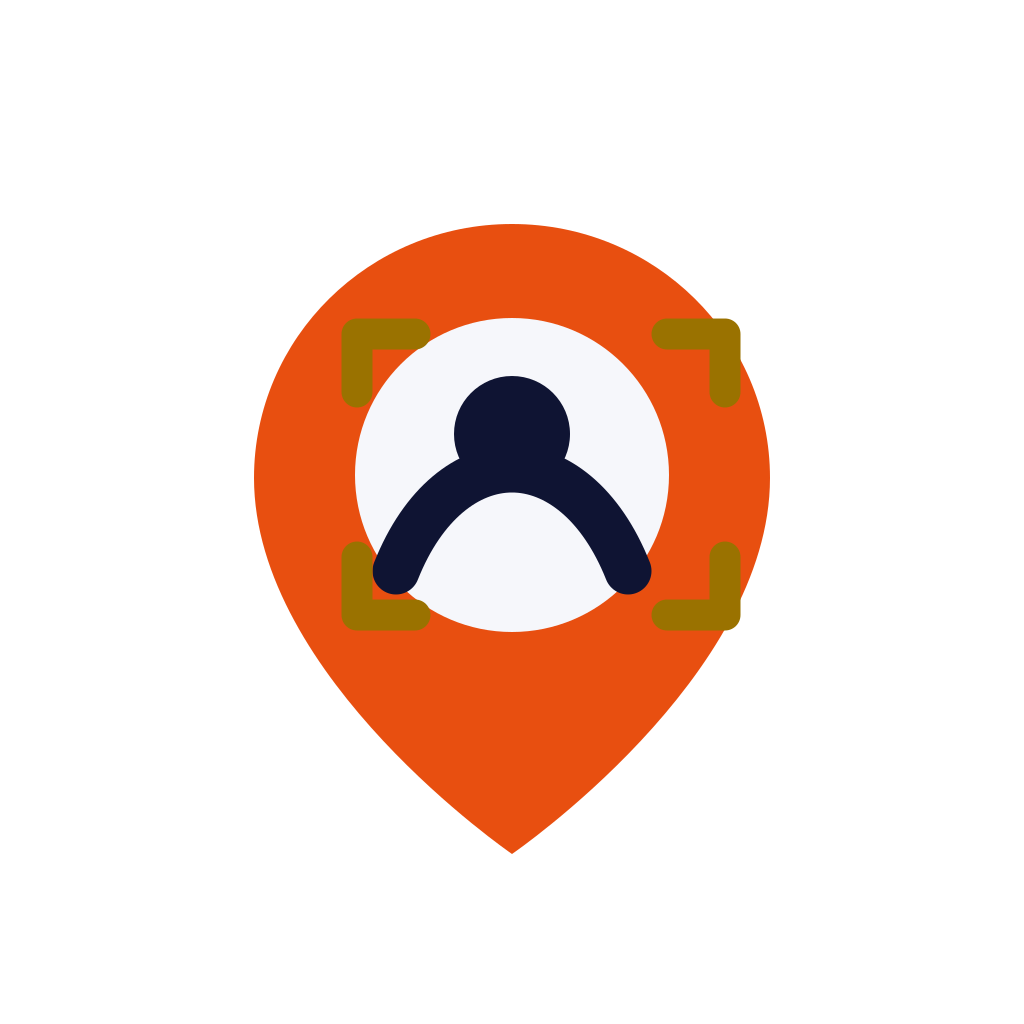
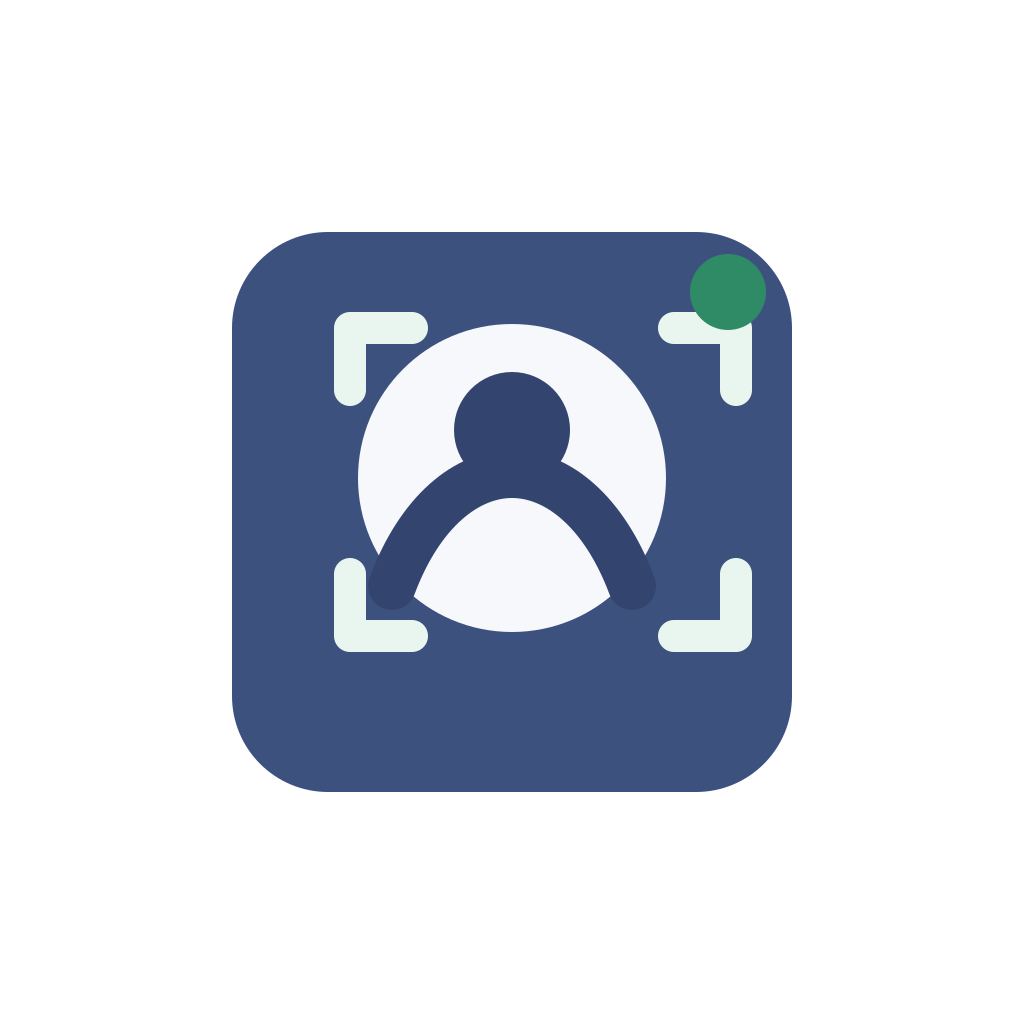
fix: restore Smart Campus mobile branding

Changed region(s): [[0.2188, 0.2188, 0.7812, 0.8438]]

diff --git a/mobile/src/components/ui/brand-header.tsx b/mobile/src/components/ui/brand-header.tsx
@@ -1,4 +1,4 @@
-import { StyleSheet, View } from 'react-native';
+import { Pressable, StyleSheet, View } from 'react-native';
 
 import { Brand, Radius, Spacing } from '@/constants/theme';
 import { useAppTheme } from '@/hooks/use-app-theme';
@@ -7,25 +7,29 @@ import { AppText } from './app-text';
 export function BrandHeader({ eyebrow, title, subtitle }: { eyebrow?: string; title: string; subtitle?: string }) {
   const { colors } = useAppTheme();
   return (
-    <View style={styles.wrap}>
+    <View style={[styles.wrap, { borderBottomColor: colors.border, backgroundColor: `${colors.surface}F2` }]}>
       <View style={styles.brandRow}>
-        <View style={[styles.mark, { backgroundColor: colors.primary }]}><AppText variant="label" style={styles.markText}>NAU</AppText></View>
-        <View style={styles.brandCopy}>
-          <AppText variant="label">{Brand.name}</AppText>
-          <AppText variant="caption" style={{ color: colors.textSecondary }}>Nnamdi Azikiwe University</AppText>
+        <View style={[styles.mark, { backgroundColor: colors.primary }]}>
+          <AppText variant="heading" style={styles.markText}>⌖</AppText>
         </View>
+        <View style={styles.brandCopy}>
+          <AppText variant="label">{title}</AppText>
+          <AppText variant="caption" numberOfLines={1} style={{ color: colors.textSecondary }}>{Brand.name}</AppText>
+        </View>
+        <Pressable style={[styles.rolePill, { borderColor: colors.border, backgroundColor: colors.surfaceMuted }]}>
+          <AppText variant="caption" style={{ color: colors.textSecondary }}>{eyebrow ?? Brand.shortName}</AppText>
+        </Pressable>
       </View>
-      {eyebrow ? <AppText variant="caption" style={{ color: colors.orange, textTransform: 'uppercase', letterSpacing: 1 }}>{eyebrow}</AppText> : null}
-      <AppText variant="title">{title}</AppText>
-      {subtitle ? <AppText style={{ color: colors.textSecondary }}>{subtitle}</AppText> : null}
+      {subtitle ? <AppText variant="caption" numberOfLines={2} style={{ color: colors.textSecondary }}>{subtitle}</AppText> : null}
     </View>
   );
 }
 
 const styles = StyleSheet.create({
-  wrap: { gap: Spacing.sm },
+  wrap: { marginHorizontal: -Spacing.lg, marginTop: -Spacing.lg, marginBottom: Spacing.sm, paddingHorizontal: Spacing.lg, paddingTop: Spacing.md, paddingBottom: Spacing.md, borderBottomWidth: StyleSheet.hairlineWidth, gap: Spacing.xs },
   brandRow: { flexDirection: 'row', alignItems: 'center', gap: Spacing.md, marginBottom: Spacing.md },
   brandCopy: { flex: 1 },
-  mark: { width: 44, height: 44, borderRadius: Radius.sm, alignItems: 'center', justifyContent: 'center' },
-  markText: { color: '#FFFFFF', fontWeight: '800' },
+  mark: { width: 36, height: 36, borderRadius: Radius.sm, alignItems: 'center', justifyContent: 'center' },
+  markText: { color: '#FFFFFF', fontWeight: '800', lineHeight: 24 },
+  rolePill: { borderWidth: StyleSheet.hairlineWidth, borderRadius: Radius.pill, paddingHorizontal: Spacing.md, paddingVertical: Spacing.xs },
 });

diff --git a/mobile/src/constants/theme.ts b/mobile/src/constants/theme.ts
@@ -1,46 +1,50 @@
 import { Platform } from 'react-native';
 
 export const Brand = {
-  name: 'UNIZIK Presence',
+  name: 'Smart Campus Presence',
   university: 'Nnamdi Azikiwe University',
-  shortName: 'UNIZIK',
+  shortName: 'Smart Campus',
   motto: 'Discipline · Self Reliance · Excellence',
   attendanceRadiusMeters: 150,
 } as const;
 
 export const Colors = {
   light: {
-    primary: '#1C64D6',
-    primaryPressed: '#154EA8',
-    primarySoft: '#EAF1FC',
-    orange: '#E84F10',
-    orangeSoft: '#FDEDE7',
-    gold: '#9A7200',
-    goldSoft: '#F8F1DA',
-    navy: '#0F1433',
-    background: '#F6F7FB',
+    primary: '#33456F',
+    primaryPressed: '#263756',
+    primarySoft: '#F2F5FA',
+    orange: '#B8821E',
+    orangeSoft: '#FBF3DF',
+    gold: '#B8821E',
+    goldSoft: '#FBF3DF',
+    navy: '#33456F',
+    sidebar: '#33456F',
+    sidebarAccent: '#3C517D',
+    background: '#F6F8FC',
     surface: '#FFFFFF',
-    surfaceMuted: '#ECF0F8',
-    text: '#0F1433',
-    textSecondary: '#5B647C',
-    textFaint: '#8991A5',
-    border: '#DDE3EF',
-    success: '#15805A',
-    successSoft: '#E7F6F0',
-    warning: '#9A7200',
-    warningSoft: '#F8F1DA',
-    danger: '#C33A32',
+    surfaceMuted: '#F1F5FA',
+    text: '#27324A',
+    textSecondary: '#68738A',
+    textFaint: '#8A94A6',
+    border: '#E1E7F0',
+    success: '#2F8B66',
+    successSoft: '#E9F6F0',
+    warning: '#B8821E',
+    warningSoft: '#FBF3DF',
+    danger: '#C4473B',
     dangerSoft: '#FCEBE9',
   },
   dark: {
-    primary: '#75A7F5',
-    primaryPressed: '#9BBFF7',
-    primarySoft: '#17284D',
-    orange: '#F27A48',
-    orangeSoft: '#3B211A',
+    primary: '#EEF3FB',
+    primaryPressed: '#D8E2F1',
+    primarySoft: '#29354D',
+    orange: '#D8B755',
+    orangeSoft: '#342E19',
     gold: '#D8B755',
     goldSoft: '#342E19',
     navy: '#F5F7FC',
+    sidebar: '#1F293D',
+    sidebarAccent: '#2B3851',
     background: '#07090F',
     surface: '#0D1320',
     surfaceMuted: '#111827',
@@ -74,4 +78,4 @@ export const Spacing = {
   huge: 48,
 } as const;
 
-export const Radius = { sm: 10, md: 16, lg: 22, pill: 999 } as const;
+export const Radius = { sm: 8, md: 12, lg: 16, pill: 999 } as const;

diff --git a/mobile/src/components/ui/button.tsx b/mobile/src/components/ui/button.tsx
@@ -10,7 +10,7 @@ type Variant = 'primary' | 'secondary' | 'danger' | 'ghost';
 
 export function Button({ children, onPress, variant = 'primary', loading, disabled, testID }: PropsWithChildren<{ onPress?: () => void; variant?: Variant; loading?: boolean; disabled?: boolean; testID?: string }>) {
   const { colors } = useAppTheme();
-  const background = variant === 'primary' ? colors.primary : variant === 'danger' ? colors.danger : variant === 'ghost' ? 'transparent' : colors.surfaceMuted;
+  const background = variant === 'primary' ? colors.primary : variant === 'danger' ? colors.danger : variant === 'ghost' ? 'transparent' : colors.surface;
   const foreground = variant === 'primary' || variant === 'danger' ? '#FFFFFF' : colors.text;
   return (
     <Pressable
@@ -21,7 +21,7 @@ export function Button({ children, onPress, variant = 'primary', loading, disabl
         void Haptics.selectionAsync();
         onPress?.();
       }}
-      style={({ pressed }) => [styles.button, { backgroundColor: background, opacity: disabled ? 0.45 : pressed ? 0.78 : 1 }]}
+      style={({ pressed }) => [styles.button, { backgroundColor: background, borderColor: variant === 'secondary' ? colors.border : 'transparent', opacity: disabled ? 0.45 : pressed ? 0.78 : 1 }]}
     >
       {loading ? <ActivityIndicator color={foreground} /> : <AppText variant="label" style={{ color: foreground, fontFamily: Fonts.medium }}>{children}</AppText>}
     </Pressable>
@@ -29,5 +29,5 @@ export function Button({ children, onPress, variant = 'primary', loading, disabl
 }
 
 const styles = StyleSheet.create({
-  button: { minHeight: 50, borderRadius: Radius.md, paddingHorizontal: Spacing.lg, alignItems: 'center', justifyContent: 'center', flexDirection: 'row' },
+  button: { minHeight: 44, borderWidth: StyleSheet.hairlineWidth, borderRadius: Radius.sm, paddingHorizontal: Spacing.lg, alignItems: 'center', justifyContent: 'center', flexDirection: 'row' },
 });

diff --git a/mobile/src/app/(lecturer)/(tabs)/_layout.tsx b/mobile/src/app/(lecturer)/(tabs)/_layout.tsx
@@ -6,10 +6,10 @@ import { useAppTheme } from '@/hooks/use-app-theme';
 export default function LecturerTabs() {
   const { colors } = useAppTheme();
   return (
-    <Tabs screenOptions={{ headerShown: false, tabBarActiveTintColor: colors.primary, tabBarInactiveTintColor: colors.textFaint, tabBarStyle: { backgroundColor: colors.surface, borderTopColor: colors.border, height: 68, paddingTop: 7, paddingBottom: 8 }, tabBarLabelStyle: { fontSize: 11, fontWeight: '600' } }}>
-      <Tabs.Screen name="index" options={{ title: 'Home', tabBarIcon: ({ color }) => <TabIcon symbol="⌂" color={color} /> }} />
-      <Tabs.Screen name="courses" options={{ title: 'Courses', tabBarIcon: ({ color }) => <TabIcon symbol="▤" color={color} /> }} />
+    <Tabs screenOptions={{ headerShown: false, tabBarActiveTintColor: colors.text, tabBarInactiveTintColor: `${colors.background}B3`, tabBarStyle: { position: 'absolute', left: 16, right: 16, bottom: 22, height: 64, borderRadius: 999, borderTopWidth: 0, backgroundColor: `${colors.text}F2`, paddingTop: 8, paddingBottom: 8, paddingHorizontal: 10, shadowColor: '#0F172A', shadowOffset: { width: 0, height: 14 }, shadowOpacity: 0.18, shadowRadius: 28, elevation: 12 }, tabBarItemStyle: { borderRadius: 999 }, tabBarActiveBackgroundColor: colors.background, tabBarLabelStyle: { fontSize: 10, fontWeight: '600' } }}>
+      <Tabs.Screen name="index" options={{ title: 'Dashboard', tabBarIcon: ({ color }) => <TabIcon symbol="⌂" color={color} /> }} />
       <Tabs.Screen name="sessions" options={{ title: 'Sessions', tabBarIcon: ({ color }) => <TabIcon symbol="◉" color={color} /> }} />
+      <Tabs.Screen name="courses" options={{ title: 'Courses', tabBarIcon: ({ color }) => <TabIcon symbol="▤" color={color} /> }} />
       <Tabs.Screen name="profile" options={{ title: 'Profile', tabBarIcon: ({ color }) => <TabIcon symbol="●" color={color} /> }} />
     </Tabs>
   );

diff --git a/mobile/src/app/(student)/(tabs)/_layout.tsx b/mobile/src/app/(student)/(tabs)/_layout.tsx
@@ -6,10 +6,10 @@ import { useAppTheme } from '@/hooks/use-app-theme';
 export default function StudentTabs() {
   const { colors } = useAppTheme();
   return (
-    <Tabs screenOptions={{ headerShown: false, tabBarActiveTintColor: colors.primary, tabBarInactiveTintColor: colors.textFaint, tabBarStyle: { backgroundColor: colors.surface, borderTopColor: colors.border, height: 68, paddingTop: 7, paddingBottom: 8 }, tabBarLabelStyle: { fontSize: 11, fontWeight: '600' } }}>
-      <Tabs.Screen name="index" options={{ title: 'Home', tabBarIcon: ({ color }) => <TabIcon symbol="⌂" color={color} /> }} />
-      <Tabs.Screen name="courses" options={{ title: 'Courses', tabBarIcon: ({ color }) => <TabIcon symbol="▤" color={color} /> }} />
+    <Tabs screenOptions={{ headerShown: false, tabBarActiveTintColor: colors.text, tabBarInactiveTintColor: `${colors.background}B3`, tabBarStyle: { position: 'absolute', left: 16, right: 16, bottom: 22, height: 64, borderRadius: 999, borderTopWidth: 0, backgroundColor: `${colors.text}F2`, paddingTop: 8, paddingBottom: 8, paddingHorizontal: 10, shadowColor: '#0F172A', shadowOffset: { width: 0, height: 14 }, shadowOpacity: 0.18, shadowRadius: 28, elevation: 12 }, tabBarItemStyle: { borderRadius: 999 }, tabBarActiveBackgroundColor: colors.background, tabBarLabelStyle: { fontSize: 10, fontWeight: '600' } }}>
+      <Tabs.Screen name="index" options={{ title: 'Dashboard', tabBarIcon: ({ color }) => <TabIcon symbol="⌂" color={color} /> }} />
       <Tabs.Screen name="history" options={{ title: 'History', tabBarIcon: ({ color }) => <TabIcon symbol="◷" color={color} /> }} />
+      <Tabs.Screen name="courses" options={{ title: 'Courses', tabBarIcon: ({ color }) => <TabIcon symbol="▤" color={color} /> }} />
       <Tabs.Screen name="profile" options={{ title: 'Profile', tabBarIcon: ({ color }) => <TabIcon symbol="●" color={color} /> }} />
     </Tabs>
   );

diff --git a/mobile/src/app/(admin)/(tabs)/_layout.tsx b/mobile/src/app/(admin)/(tabs)/_layout.tsx
@@ -6,8 +6,8 @@ import { useAppTheme } from '@/hooks/use-app-theme';
 export default function AdminTabs() {
   const { colors } = useAppTheme();
   return (
-    <Tabs screenOptions={{ headerShown: false, tabBarActiveTintColor: colors.primary, tabBarInactiveTintColor: colors.textFaint, tabBarStyle: { backgroundColor: colors.surface, borderTopColor: colors.border, height: 68, paddingTop: 7, paddingBottom: 8 }, tabBarLabelStyle: { fontSize: 11, fontWeight: '600' } }}>
-      <Tabs.Screen name="index" options={{ title: 'Home', tabBarIcon: ({ color }) => <TabIcon symbol="⌂" color={color} /> }} />
+    <Tabs screenOptions={{ headerShown: false, tabBarActiveTintColor: colors.text, tabBarInactiveTintColor: `${colors.background}B3`, tabBarStyle: { position: 'absolute', left: 16, right: 16, bottom: 22, height: 64, borderRadius: 999, borderTopWidth: 0, backgroundColor: `${colors.text}F2`, paddingTop: 8, paddingBottom: 8, paddingHorizontal: 10, shadowColor: '#0F172A', shadowOffset: { width: 0, height: 14 }, shadowOpacity: 0.18, shadowRadius: 28, elevation: 12 }, tabBarItemStyle: { borderRadius: 999 }, tabBarActiveBackgroundColor: colors.background, tabBarLabelStyle: { fontSize: 10, fontWeight: '600' } }}>
+      <Tabs.Screen name="index" options={{ title: 'Dashboard', tabBarIcon: ({ color }) => <TabIcon symbol="⌂" color={color} /> }} />
       <Tabs.Screen name="approvals" options={{ title: 'Approvals', tabBarIcon: ({ color }) => <TabIcon symbol="✓" color={color} /> }} />
       <Tabs.Screen name="setup" options={{ title: 'Setup', tabBarIcon: ({ color }) => <TabIcon symbol="＋" color={color} /> }} />
       <Tabs.Screen name="reports" options={{ title: 'Reports', tabBarIcon: ({ color }) => <TabIcon symbol="▥" color={color} /> }} />

diff --git a/mobile/src/components/permissions/permission-primer.tsx b/mobile/src/components/permissions/permission-primer.tsx
@@ -9,8 +9,8 @@ import { Button } from '@/components/ui/button';
 import { Card } from '@/components/ui/card';
 
 const copy: Record<PermissionKind, { title: string; body: string; action: string }> = {
-  location: { title: 'Confirm your lecture location', body: 'UNIZIK Presence uses precise location only during check-in to confirm that you are within the fixed 150-metre lecture radius.', action: 'Allow precise location' },
-  camera: { title: 'Allow camera for live-face verification', body: 'UNIZIK Presence analyses lighting, face position, eye state, and head movement locally with Google ML Kit. Captures are temporary, are never saved to your gallery, and the camera is used only while this verification screen is open.', action: 'Continue to camera permission' },
+  location: { title: 'Confirm your lecture location', body: 'Smart Campus Presence uses precise location only during check-in to confirm that you are within the fixed 150-metre lecture radius.', action: 'Allow precise location' },
+  camera: { title: 'Allow camera for live-face verification', body: 'Smart Campus Presence analyses lighting, face position, eye state, and head movement locally with Google ML Kit. Captures are temporary, are never saved to your gallery, and the camera is used only while this verification screen is open.', action: 'Continue to camera permission' },
   notifications: { title: 'Know when attendance opens', body: 'Get notified when a lecturer opens a session, when check-in finishes, or when a lecturer account is approved.', action: 'Enable notifications' },
 };
 

diff --git a/mobile/src/components/ui/status-pill.tsx b/mobile/src/components/ui/status-pill.tsx
@@ -8,7 +8,7 @@ export function StatusPill({ label, tone = 'info' }: { label: string; tone?: 'in
   const { colors } = useAppTheme();
   const color = tone === 'success' ? colors.success : tone === 'warning' ? colors.warning : tone === 'danger' ? colors.danger : colors.primary;
   const background = tone === 'success' ? colors.successSoft : tone === 'warning' ? colors.warningSoft : tone === 'danger' ? colors.dangerSoft : colors.primarySoft;
-  return <View style={[styles.pill, { backgroundColor: background }]}><AppText variant="caption" style={{ color }}>{label}</AppText></View>;
+  return <View style={[styles.pill, { backgroundColor: background, borderColor: `${color}33` }]}><AppText variant="caption" style={{ color, fontWeight: '600' }}>{label}</AppText></View>;
 }
 
-const styles = StyleSheet.create({ pill: { alignSelf: 'flex-start', borderRadius: Radius.pill, paddingHorizontal: Spacing.md, paddingVertical: Spacing.xs } });
+const styles = StyleSheet.create({ pill: { alignSelf: 'flex-start', borderWidth: StyleSheet.hairlineWidth, borderRadius: Radius.pill, paddingHorizontal: Spacing.md, paddingVertical: Spacing.xs } });

diff --git a/mobile/src/providers/auth-provider.tsx b/mobile/src/providers/auth-provider.tsx
@@ -20,7 +20,7 @@ function mapProfile(row: Record<string, unknown>): AppProfile {
   return {
     id: String(row.id ?? ''),
     role: (row.role as Role) ?? 'student',
-    name: String(row.name ?? 'UNIZIK User'),
+    name: String(row.name ?? 'Smart Campus User'),
     email: String(row.email ?? ''),
     facultyId: row.faculty_id ? String(row.faculty_id) : undefined,
     departmentId: row.department_id ? String(row.department_id) : undefined,
@@ -44,7 +44,7 @@ export function AuthProvider({ children }: { children: React.ReactNode }) {
   const loadProfile = useCallback(async (userId: string) => {
     if (!supabase) return;
     const { data, error } = await supabase.from('profiles').select('id, role, name, email, faculty_id, department_id, faculty, department, level, semester, reg_number, staff_id, approval_status, face_enrolled, course_ids').eq('id', userId).single();
-    if (error) throw new Error('Your UNIZIK profile could not be loaded.');
+    if (error) throw new Error('Your Smart Campus profile could not be loaded.');
     setProfile(mapProfile(data as Record<string, unknown>));
   }, []);
 

diff --git a/mobile/src/services/push-registration.ts b/mobile/src/services/push-registration.ts
@@ -7,7 +7,7 @@ import { supabase } from '@/lib/supabase';
 export async function registerPushNotifications() {
   if (!supabase) throw new Error('Supabase is not configured.');
   if (!Device.isDevice) throw new Error('Push notifications require a physical device.');
-  if (Platform.OS === 'android') await Notifications.setNotificationChannelAsync('attendance', { name: 'Attendance', importance: Notifications.AndroidImportance.HIGH, vibrationPattern: [0, 250, 150, 250], lightColor: '#1C64D6' });
+  if (Platform.OS === 'android') await Notifications.setNotificationChannelAsync('attendance', { name: 'Attendance', importance: Notifications.AndroidImportance.HIGH, vibrationPattern: [0, 250, 150, 250], lightColor: '#33456F' });
   const projectId = process.env.EXPO_PUBLIC_EAS_PROJECT_ID;
   if (!projectId) throw new Error('EAS project ID is not configured.');
   const permission = await Notifications.getPermissionsAsync();

diff --git a/mobile/src/components/ui/app-text.tsx b/mobile/src/components/ui/app-text.tsx
@@ -13,10 +13,10 @@ export function AppText({ variant = 'body', style, ...props }: TextProps & { var
 
 const styles = StyleSheet.create({
   base: { fontFamily: Fonts.regular },
-  display: { fontFamily: Fonts.bold, fontSize: 32, lineHeight: 39, letterSpacing: -0.8 },
-  title: { fontFamily: Fonts.bold, fontSize: 24, lineHeight: 31, letterSpacing: -0.4 },
-  heading: { fontFamily: Fonts.medium, fontSize: 18, lineHeight: 24 },
-  body: { fontSize: 15, lineHeight: 22 },
+  display: { fontFamily: Fonts.bold, fontSize: 28, lineHeight: 36 },
+  title: { fontFamily: Fonts.bold, fontSize: 20, lineHeight: 27 },
+  heading: { fontFamily: Fonts.medium, fontSize: 16, lineHeight: 23 },
+  body: { fontSize: 14, lineHeight: 21 },
   label: { fontFamily: Fonts.medium, fontSize: 14, lineHeight: 19 },
   caption: { fontSize: 12, lineHeight: 17 },
 });

diff --git a/mobile/src/services/on-device-liveness.ts b/mobile/src/services/on-device-liveness.ts
@@ -58,7 +58,7 @@ export function validateLivenessFrame(instruction: string, analysis: FaceAnalysi
 }
 
 export async function analyseLivenessCapture(uri: string, base64: string): Promise<{ analysis: FaceAnalysis; imageHash: string }> {
-  if (!OnDeviceFaceAnalysis) throw new Error('Live-face processing requires the installed UNIZIK Presence development build, not Expo Go.');
+  if (!OnDeviceFaceAnalysis) throw new Error('Live-face processing requires the installed Smart Campus Presence development build, not Expo Go.');
   const [analysis, imageHash] = await Promise.all([
     OnDeviceFaceAnalysis.analyzeImageAsync(uri),
     Crypto.digestStringAsync(Crypto.CryptoDigestAlgorithm.SHA256, base64),
